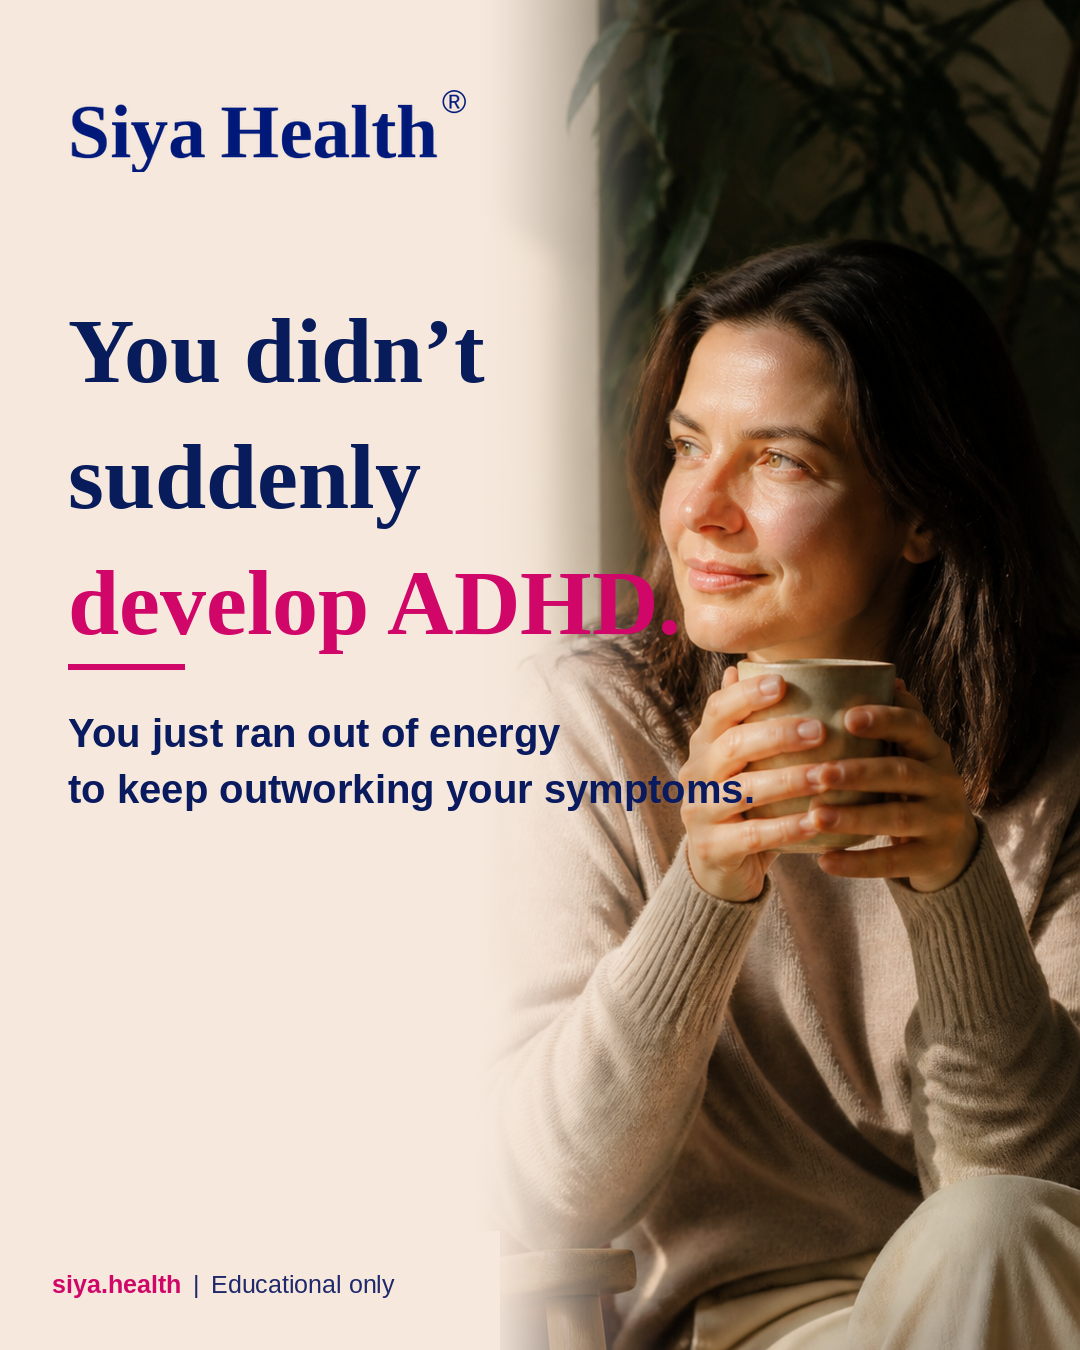
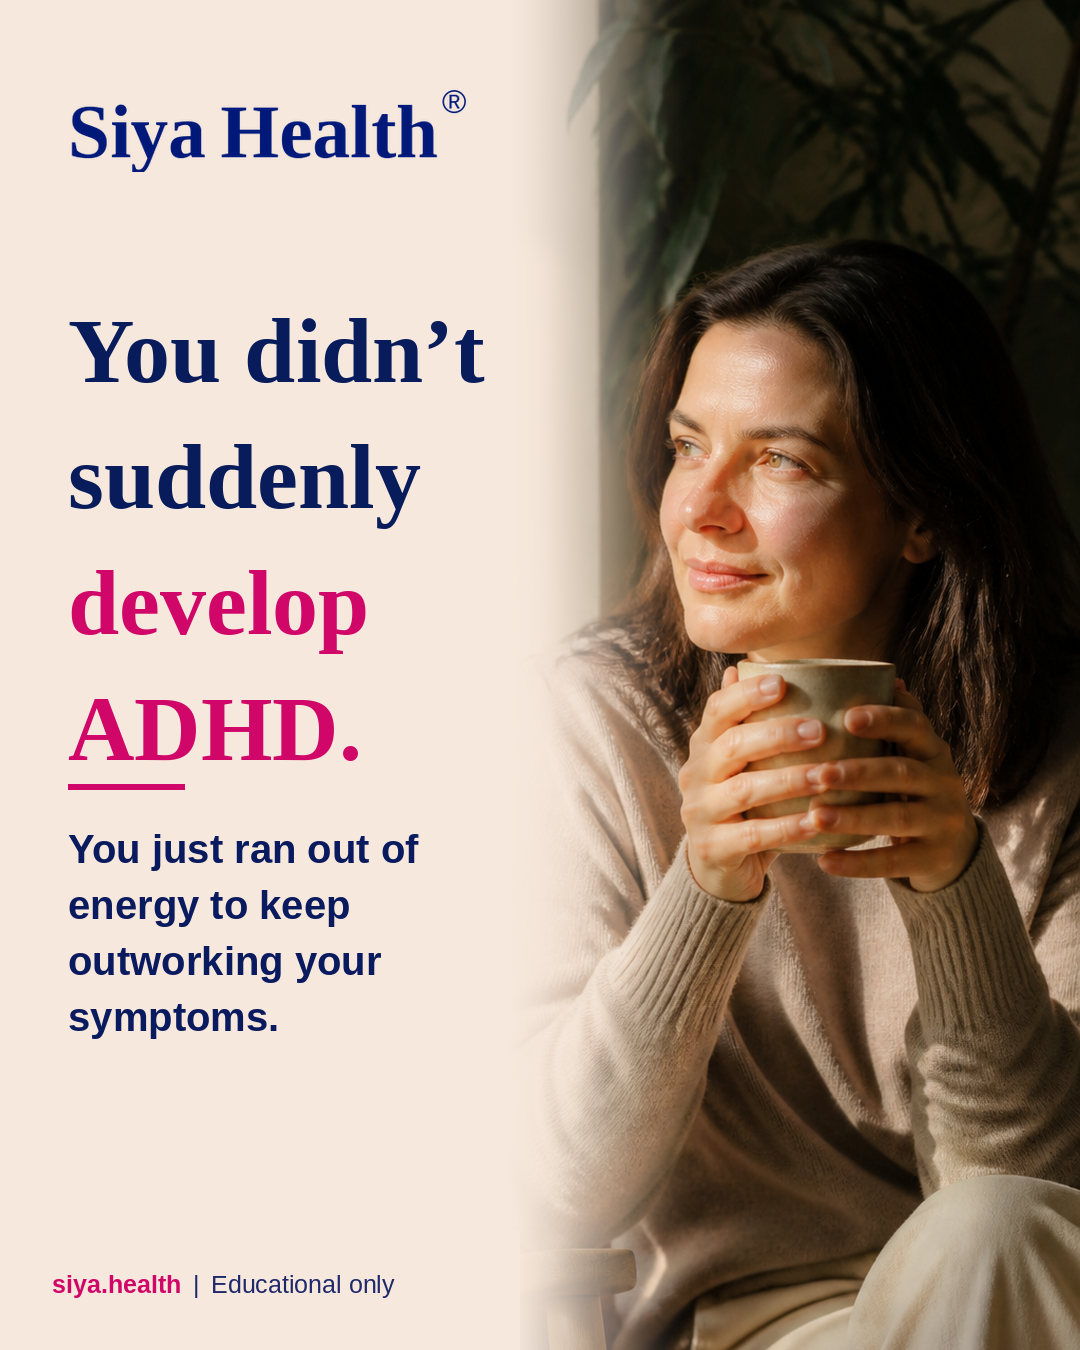
fix(brand): restrict text strictly to left text field on Slide 1 (AD-K-01)

Changed region(s): [[0.0611, 0.0, 0.7028, 0.7778], [0.4583, 0.7778, 0.6111, 1.0], [0.4889, 0.7156, 0.55, 0.7467]]

diff --git a/apps/siya-health/brand/scripts/compose_benchmark_static.py b/apps/siya-health/brand/scripts/compose_benchmark_static.py
@@ -74,8 +74,10 @@ def fit_cover_right(photo: Image.Image, box_w: int, box_h: int) -> Image.Image:
     return src.crop((left, top, left + box_w, top + box_h))
 
 
-def soft_cream_dissolve_mask(width: int, height: int, start_x: int = 460, end_x: int = 680) -> Image.Image:
-    """Creates benchmark-exact left cream to right photo dissolve."""
+def soft_cream_dissolve_mask(width: int, height: int, start_x: int = 500, end_x: int = 700) -> Image.Image:
+    """Creates benchmark-exact left cream to right photo dissolve.
+    Keeps x=0 to 500 as pure solid cream so all text stays safely in the clean left text field.
+    """
     mask = Image.new("L", (width, height), 0)
     px = mask.load()
     span = max(1, end_x - start_x)
@@ -92,7 +94,7 @@ def soft_cream_dissolve_mask(width: int, height: int, start_x: int = 460, end_x:
         for y in range(height):
             # Keep bottom left area clean for footer
             a = a_x
-            if y > height - 120 and x < 500:
+            if y > height - 120 and x < 520:
                 a = 0
             px[x, y] = a
     return mask
@@ -177,7 +179,7 @@ def compose_benchmark(
 
     # 2. Fit Photo and Blend
     photo = fit_cover_right(Image.open(photo_path), W, H)
-    mask = soft_cream_dissolve_mask(W, H, start_x=470, end_x=680)
+    mask = soft_cream_dissolve_mask(W, H, start_x=500, end_x=700)
     canvas = Image.composite(photo, canvas, mask)
     draw = ImageDraw.Draw(canvas)
 
@@ -203,12 +205,12 @@ def compose_benchmark(
 
     # 5. Horizontal Magenta Rule Divider
     # Gap from last headline line: divider is 116px wide, 5px high
-    divider_y = y_after_head - 126 + 112
+    divider_y = y_after_head - 126 + 106
     draw.rectangle([left_margin, divider_y, left_margin + 116, divider_y + 5], fill=MAGENTA_ACCENT)
 
     # 6. Supporting Text (Arial Bold @ 40px, line_height 56px)
     s_font = resolve_font("body_bold", 40)
-    subhead_start_y = divider_y + 46
+    subhead_start_y = divider_y + 42
     draw_subhead_benchmark(
         draw=draw,
         subhead_lines=subhead_lines,

diff --git a/apps/siya-health/brand/editorial-packs/AD-K-01-bandwidth-cliff/README.md b/apps/siya-health/brand/editorial-packs/AD-K-01-bandwidth-cliff/README.md
@@ -5,10 +5,11 @@
 - **Template ID:** `A-03` Lean Knowledge Carousel
 - **Typography Benchmark:** Locked against official benchmark reference layout (`5b9c13f2-8df6-41a4-9de1-8d7a4ccc7a3e.png`)
 - **Slide 1 Copy:**
-  - **Headline:** You didn't / suddenly / develop ADHD.
-  - **Accent:** `develop ADHD.` (Siya Magenta `#D00668`)
+  - **Headline:** You didn't / suddenly / develop / ADHD.
+  - **Accent:** `develop` / `ADHD.` (Siya Magenta `#D00668`)
   - **Divider Rule:** Solid magenta horizontal rule (`116px` width $\times$ `5px` height)
-  - **Recognition (Subhead):** You just ran out of energy / to keep outworking your symptoms. (Deep Navy `#0A1A5E`)
+  - **Recognition (Subhead):** You just ran out of / energy to keep / outworking your / symptoms. (Deep Navy `#0A1A5E`)
+  - **Layout Constraints:** Clean line breaks keeping text strictly within the left cream field (width $\le$ 416px, solid cream zone $x=0\dots500$), zero encroachment on the photography zone.
   - **Logo:** Locked `LOGO-PRIMARY` registered lockup (`Siya Health®`), top-left `(x=68, y=80)`
   - **Footer:** `siya.health | Educational only` at `(52, 1270)`
 - **Compositor:** `apps/siya-health/brand/scripts/compose_benchmark_static.py`
